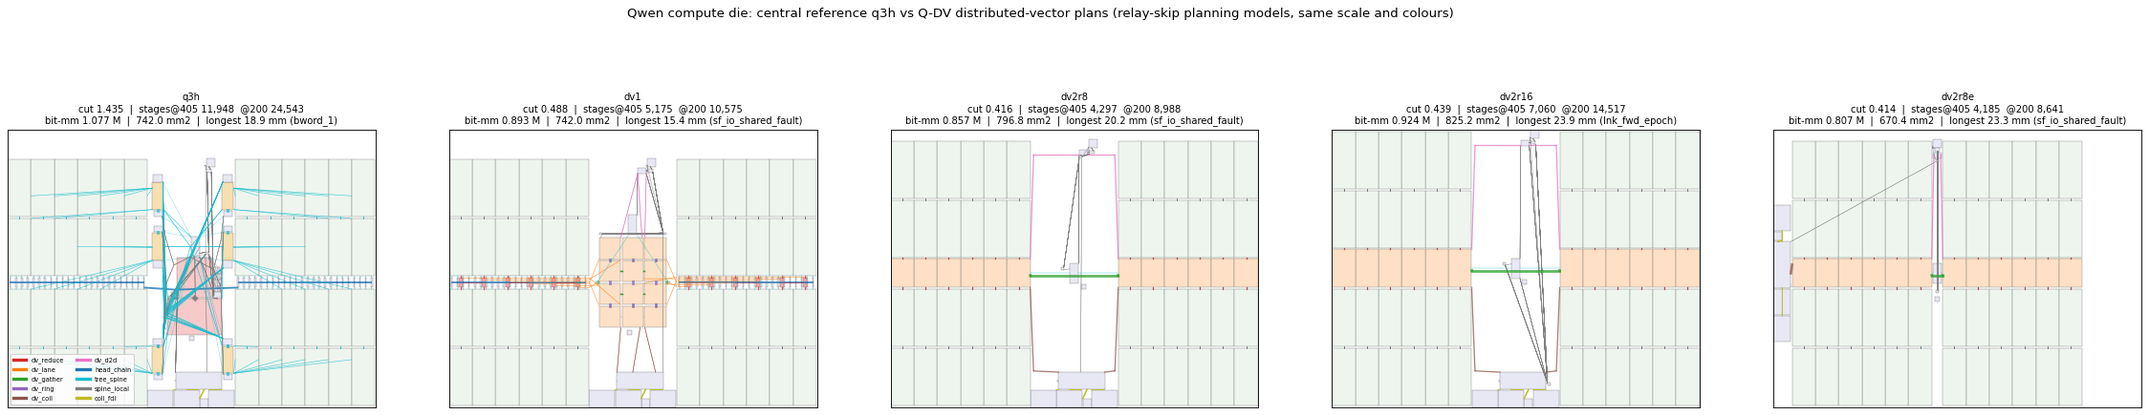
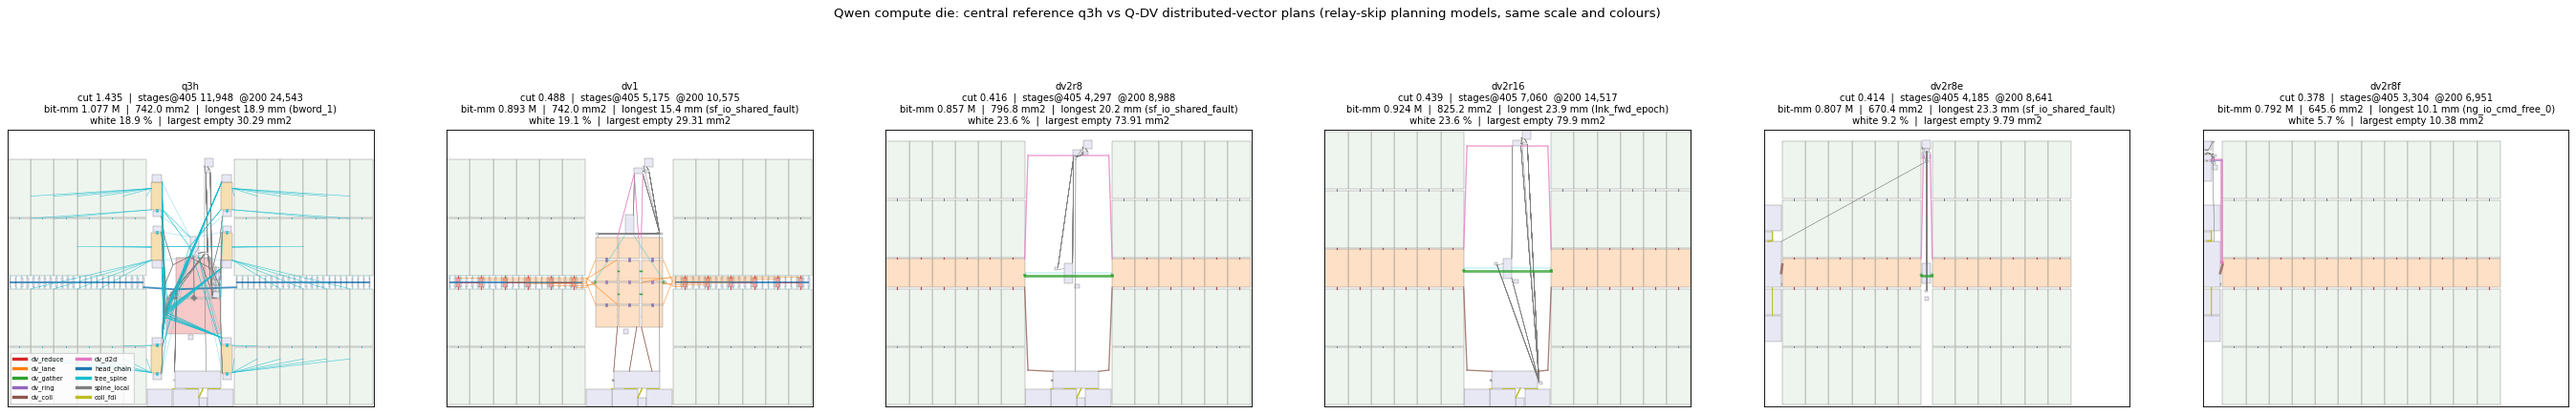
Q-DV dv2r8f ADOPTED: centre closed, D2D/control in the W column (cut 0.378, stages 3,304, bit-mm 0.792M, 645.6 mm2, white 5.7%); white-space metric; montage with white %

Changed region(s): [[0.0, 0.2097, 1.0, 0.9885], [0.2802, 0.0, 0.6851, 0.0599]]

diff --git a/results/arch/qwen_dv_1016/build_dv2f.py b/results/arch/qwen_dv_1016/build_dv2f.py
@@ -1,0 +1,62 @@
+#!/usr/bin/env python3
+"""Q-DV dv2r8f (owner 10-17, no empty regions): from dv2r8e
+  * centre closed to CW (default 0): the W and E arrays and slice rows abut; dvs_W0 | dvs_E0 exchange the stream face to
+    face (as every slice pair does); no die net needs a centre channel any more (the D2D / control group moves out)
+  * the control / D2D group goes to the N end of the W-edge column, packed two abreast (778-um blocks in the 1,672-um
+    column): ucie_kv on the N edge at the W corner (KV die abuts the N edge, shifted to the W corner: same edge as today),
+    d2d_rom under it (FDI abutted), native59 | sys_face, tt_ctlm | embed / clk_rx / rstseq
+  * the PHY stack (serdes_2, serdes_1, collective, io_ucie, serdes) stays contiguous, centred on the slice row
+    python3 build_dv2f.py IN(dv2r8e).json OUT.json [CW]"""
+import json, sys
+src, out = sys.argv[1:3]; CW = float(sys.argv[3]) if len(sys.argv) > 3 else 0.0
+d = json.load(open(src)); I = {i['n']: i for i in d['insts']}
+G = 108.0
+xw1 = I['c16_W0_1']['x'] + I['c16_W0_1']['w']; xe0 = I['c16_E0_1']['x']
+dx = (xe0 - xw1) - CW
+IO = {'io_collective', 'io_serdes', 'io_serdes_1', 'io_serdes_2', 'io_ucie', 'bump_pkg_s0', 'bump_pkg_s1', 'bump_die_ps'}
+CTRL = ['ucie_kv', 'd2d_rom', 'native59', 'sys_face', 'tt_ctlm', 'embed_prov', 'clk_rx', 'rstseq_rom', 'ckb_rom', 'rs_bump', 'bump_fwd_epoch', 'bump_fwd_lrst']
+for n, i in I.items():
+    if n in IO or n in CTRL: continue
+    if i['x'] + i['w'] / 2 > (xw1 + xe0) / 2: i['x'] = round(i['x'] - dx, 3)
+colw = max(I[n]['x'] + I[n]['w'] for n in IO if n.startswith('io_'))
+H = max(i['y'] + i['h'] for n, i in I.items() if n.startswith('c16_'))
+top = H
+def put(n, x, y): I[n]['x'] = round(x, 3); I[n]['y'] = round(y, 3)
+# N end of the column: ucie_kv on the N edge, d2d abutted below (FDI 4.32 um), bumps beside
+put('ucie_kv', 0.0, top - I['ucie_kv']['h']); put('d2d_rom', 0.0, I['ucie_kv']['y'] - 4.32 - I['d2d_rom']['h'])
+for k, n in enumerate(('ckb_rom', 'rs_bump', 'bump_fwd_epoch', 'bump_fwd_lrst')):
+    put(n, I['ucie_kv']['w'] + 30 + 60 * k, top - 60)
+put('native59', 0.0, I['d2d_rom']['y'] - G - I['native59']['h'])
+put('sys_face', I['ucie_kv']['w'] + G, I['native59']['y'] + I['native59']['h'] - I['sys_face']['h'])
+put('tt_ctlm', 0.0, I['native59']['y'] - G - I['tt_ctlm']['h'])
+x2 = I['tt_ctlm']['w'] + G; y = I['tt_ctlm']['y'] + I['tt_ctlm']['h']
+for n in ('embed_prov', 'clk_rx', 'rstseq_rom'):
+    y -= I[n]['h']; put(n, x2, y); y -= G
+ctrl_bottom = min(I[n]['y'] for n in CTRL)
+# lane relays: crossing lane gone (abutted); edge lanes now along the column
+for n in ('dvx_w', 'dvx_e'):
+    I.pop(n, None)
+d['buses'] = [b for b in d['buses'] if b[0] not in ('dv_x0', 'dv_x1', 'dv_x2')]
+d['buses'].append(['dv_x0', 'dv_gather', 2 * 1088 + 96, ['dvs_W0', 'dvs_E0']])
+# D2D / ib: from the column (native59, tt_ctlm) along the slice-row lane to W5 (the backbone end); E side via the backbone
+d['buses'] = [b for b in d['buses'] if not b[0].startswith(('dv_kv', 'dv_ib_'))]
+for n in ('dvk_W', 'dvk_E'): I.pop(n, None)
+d['buses'] += [['dv_kv_W', 'dv_d2d', 2 * 1068, ['dvs_W5', 'native59']], ['dv_ib_W', 'tree_spine', 380, ['tt_ctlm', 'dvs_W5']]]
+# column channel: widen the PHY-column / array channel to CH so the D2D + ib lanes (2,516 b) run inside it, not over W5
+CH = float(sys.argv[4]) if len(sys.argv) > 4 else 216.0
+colx = max(I[n]['x'] + I[n]['w'] for n in CTRL + [k for k in IO if k.startswith('io_')])
+arr0 = min(i['x'] for n, i in I.items() if n.startswith(('c16_', 'dvs_')))
+sh = colx + CH - arr0
+for n, i in I.items():
+    if n in IO or n in CTRL: continue
+    i['x'] = round(i['x'] + sh, 3)
+lx = colx + CH / 2 - 5.4; sl = I['dvs_W5']
+for n, y in (('dvl_a', I['native59']['y']), ('dvl_b', sl['y'] + sl['h'] - 300)):   # lane enters W5 near its N-W corner
+    I[n] = dict(n=n, m='qfd_dv_lane_relay', x=round(lx, 3), y=round(y, 3), w=10.8, h=10.8)
+d['buses'] = [b for b in d['buses'] if b[0] not in ('dv_kv_W', 'dv_ib_W')]
+d['buses'] += [['dv_kv_W', 'dv_d2d', 2 * 1068, ['native59', 'dvl_a']], ['dv_kv_W2', 'dv_d2d', 2 * 1068, ['dvl_a', 'dvl_b']],
+               ['dv_kv_W3', 'dv_d2d', 2 * 1068, ['dvl_b', 'dvs_W5']], ['dv_ib_W', 'tree_spine', 380, ['tt_ctlm', 'dvl_a']]]
+d['insts'] = list(I.values()); d['centre_um'] = CW; d['column_channel_um'] = CH
+json.dump(d, open(out, 'w'))
+phy_top = max(I[n]['y'] + I[n]['h'] for n in IO if n.startswith('io_'))
+print(out, 'centre', CW, 'column', round(colw), 'ctrl group y', round(ctrl_bottom), '..', round(top), 'PHY stack top', round(phy_top), 'gap', round(ctrl_bottom - phy_top))

diff --git a/results/arch/qwen_dv_1016/cycles_v2.py b/results/arch/qwen_dv_1016/cycles_v2.py
@@ -72,13 +72,18 @@ def dv2(f, lanes=8, rep=False):
     side = lambda s: [f'dvs_{s}{g}' for g in range(6)]
     R = FEED + 1 + st(I, 'c16_W5_1', 'dvs_W5')
     P = max(st(I, f'dvs_{s}{g+1}', f'dvs_{s}{g}') for s in 'WE' for g in (0, 2, 4))
-    cross = ['dvs_W0', 'dvx_w', 'dvx_e', 'dvs_E0']
+    cross = ['dvs_W0', 'dvx_w', 'dvx_e', 'dvs_E0'] if 'dvx_w' in I else ['dvs_W0', 'dvs_E0']
     far = st(I, *side('W')[::-1], *cross[1:], *side('E')[1:])            # W5 -> E5 along the stream
     within = st(I, *side('W')[::-1])                                     # W5 -> W0
     tree_side = 2 * max(st(I, *side('W')[k:3][::-1] or ['dvs_W2']) if k < 3 else st(I, *side('W')[2:k + 1]) for k in range(6))
-    tree_die = 2 * st(I, 'dvs_W5', 'dvs_W4', 'dvs_W3', 'dvs_W2', 'dvs_W1', 'dvs_W0', 'dvx_w')
-    K = st(I, 'dvs_W4', 'dvs_W3', 'dvs_W2', 'dvs_W1', 'dvs_W0', 'dvk_W', 'native59', 'd2d_rom')
-    O = st(I, 'd2d_rom', 'native59', 'dvk_W', 'dvs_W0', 'dvs_W1', 'dvs_W2', 'dvs_W3', 'dvs_W4', 'dvs_W5')
+    tree_die = 2 * st(I, 'dvs_W5', 'dvs_W4', 'dvs_W3', 'dvs_W2', 'dvs_W1', 'dvs_W0', cross[1])
+    if 'dvl_a' in I:                                 # dv2r8f: D2D group at the N end of the W column, lane to W5
+        bb = ['dvs_E4', 'dvs_E3', 'dvs_E2', 'dvs_E1', 'dvs_E0', 'dvs_W0', 'dvs_W1', 'dvs_W2', 'dvs_W3', 'dvs_W4', 'dvs_W5']
+        K = st(I, *bb, 'dvl_b', 'dvl_a', 'native59', 'd2d_rom')
+        O = st(I, 'd2d_rom', 'native59', 'dvl_a', 'dvl_b', 'dvs_W5', 'dvs_W4', 'dvs_W3', 'dvs_W2', 'dvs_W1', 'dvs_W0', 'dvs_E0', 'dvs_E1', 'dvs_E2', 'dvs_E3', 'dvs_E4', 'dvs_E5')
+    else:
+        K = st(I, 'dvs_W4', 'dvs_W3', 'dvs_W2', 'dvs_W1', 'dvs_W0', 'dvk_W', 'native59', 'd2d_rom')
+        O = st(I, 'd2d_rom', 'native59', 'dvk_W', 'dvs_W0', 'dvs_W1', 'dvs_W2', 'dvs_W3', 'dvs_W4', 'dvs_W5')
     if d.get('variant') == 'A':                     # dv2r8e A: collective at the W edge, AR enters at the backbone end W5
         A = st(I, 'dvs_W5', 'io_collective') + st(I, 'io_collective', 'dvs_W5')
     else:

diff --git a/results/arch/qwen_dv_1016/compare_all.py b/results/arch/qwen_dv_1016/compare_all.py
@@ -6,6 +6,7 @@ import matplotlib; matplotlib.use('Agg')
 import matplotlib.pyplot as plt
 from matplotlib.patches import Rectangle
 sys.path.insert(0, '/home/ubuntu/scratch/qdv-1016'); import metr
+sys.path.insert(0, '/home/ubuntu/wt/qdv-1016/results/arch/qwen_dv_1016'); import whitespace
 COL = {'dv_reduce': '#d62728', 'dv_lane': '#ff7f0e', 'dv_gather': '#2ca02c', 'dv_ring': '#9467bd', 'dv_coll': '#8c564b',
        'dv_d2d': '#e377c2', 'head_chain': '#1f77b4', 'tree_spine': '#17becf', 'spine_local': '#7f7f7f', 'coll_fdi': '#bcbd22'}
 FILL = {'qfd_c_b16': '#eef5ee', 'qfd_dv_slice': '#fde0c5', 'qfd_dv_slice2': '#fde0c5', 'qfd_dv_redstn': '#f4a6a6',
@@ -28,9 +29,9 @@ for ax, (name, f) in zip(axs, M):
         for a, q in (zip(p, p[1:]) if len(p) == 2 else [(p[0], t) for t in p[1:]]):
             A, Q = cl(a, cen(q)), cl(q, cen(a)); ax.plot([A[0], Q[0]], [A[1], Q[1]], color=COL[c], lw=max(.3, bits / 900), alpha=.75)
     ax.set_xlim(0, W + 50); ax.set_ylim(0, H + 50); ax.set_aspect('equal'); ax.set_xticks([]); ax.set_yticks([])
-    lh = r['longest_hop']
+    lh = r['longest_hop']; wsr = whitespace.ws(f)
     ax.set_title(f"{name}\ncut {r['worst_cut']}  |  stages@405 {r['stages405']:,}  @200 {r200['stages200']:,}\n"
-                 f"bit-mm {r['bitmm'] / 1e6:.3f} M  |  {r['mm2']} mm2  |  longest {lh[0] / 1000:.1f} mm ({lh[1]})", fontsize=9)
+                 f"bit-mm {r['bitmm'] / 1e6:.3f} M  |  {r['mm2']} mm2  |  longest {lh[0] / 1000:.1f} mm ({lh[1]})\nwhite {wsr['white_pct']} %  |  largest empty {wsr['largest_empty']['mm2']} mm2", fontsize=9)
 for c, col in COL.items(): axs[0].plot([], [], color=col, lw=3, label=c)
 axs[0].legend(loc='lower left', fontsize=6, ncol=2)
 fig.suptitle('Qwen compute die: central reference q3h vs Q-DV distributed-vector plans (relay-skip planning models, same scale and colours)', fontsize=12)

diff --git a/results/arch/qwen_dv_1016/whitespace.py b/results/arch/qwen_dv_1016/whitespace.py
@@ -1,0 +1,32 @@
+#!/usr/bin/env python3
+"""White space of a planning model: 1 - (block area clipped to the die) / die area (blocks > 0.04 mm2; relays / bumps
+excluded), and the largest empty axis-aligned rectangle (20-um raster, maximal-rectangle histogram method).
+    whitespace.py MODEL.json ... -> json lines"""
+import json, sys
+import numpy as np
+def ws(f, g=20.0):
+    d = json.load(open(f)); I = [i for i in d['insts'] if i['w'] * i['h'] > 4e4]
+    allI = d['insts']
+    W = max(i['x'] + i['w'] for i in allI) + 21.6; H = max(i['y'] + i['h'] for i in allI) + 21.6
+    nx, ny = int(W / g) + 1, int(H / g) + 1
+    occ = np.zeros((ny, nx), dtype=bool)
+    for i in I:
+        x0, x1 = int(i['x'] / g), int(np.ceil((i['x'] + i['w']) / g)); y0, y1 = int(i['y'] / g), int(np.ceil((i['y'] + i['h']) / g))
+        occ[y0:y1, x0:x1] = True
+    white = 1 - occ.sum() / occ.size
+    h = np.zeros(nx, dtype=int); best = (0, None)
+    for r in range(ny):
+        h = np.where(occ[r], 0, h + 1); st = []
+        for c in range(nx + 1):
+            cur = h[c] if c < nx else 0
+            start = c
+            while st and st[-1][1] >= cur:
+                s, hh = st.pop(); a = hh * (c - s)
+                if a > best[0]: best = (a, (s * g, (r - hh + 1) * g, (c - s) * g, hh * g))
+                start = s
+            st.append((start, cur))
+    a, (x, y, w, hh) = best
+    return dict(model=f, die_mm2=round(W * H / 1e6, 1), white_pct=round(100 * white, 1), white_mm2=round(white * W * H / 1e6, 1),
+                largest_empty=dict(mm2=round(w * hh / 1e6, 2), x=x, y=y, w=w, h=hh))
+if __name__ == '__main__':
+    for f in sys.argv[1:]: print(json.dumps(ws(f)))

diff --git a/results/arch/qwen_dv_1016/SPEC.md b/results/arch/qwen_dv_1016/SPEC.md
@@ -373,3 +373,43 @@ Outputs:
 - `dv2r8e.png`: viewed.
 
 The plan is now asymmetric: all IO is on the W edge. The E-side AR rows ride the backbone. That traffic is within the collective's own 512 b/cycle, and is ordered farthest-first.
+
+## dv2r8f: no empty regions (owner correction 0cl, 2026-10-17) -- ADOPTED
+
+`build_dv2f.py` starts from dv2r8e and makes three changes.
+
+1. **Centre closed to 0.**
+   - The W and E arrays and the slice rows abut. `dvs_W0 | dvs_E0` exchange the stream face to face, like every other slice pair.
+   - No die net needs a centre channel any more. The cut model's worst line no longer lies anywhere near the seam.
+2. **tt_ctlm / sys_face / native59 / d2d / ucie_kv / embed / clk_rx / rstseq** are packed two abreast at the N end of the W-edge column.
+   - The KV die still abuts the N edge, now at the W corner.
+   - The KV die cannot sit on the W edge: that edge carries the SerDes beachfront, and the KV die is 24 mm long.
+   - ib/go enters the backbone at W5. It is static and pre-issued, so this costs no latency.
+3. **Column channel = 216 um.**
+   - The 2,516-b D2D + ib lane (native59 -> W5) runs inside it.
+   - At 108 um that lane alone would load the channel about 0.74.
+   - Routed diagonally over W5's clusters it gave cut 0.517.
+
+| | q3h | dv2r8 | dv2r8e | **dv2r8f** |
+|---|---:|---:|---:|---:|
+| worst cut | 1.435 | 0.416 | 0.414 | **0.378** |
+| stages @405 / @200 | 11,948 / 24,543 | 4,297 / 8,988 | 4,185 / 8,641 | **3,304 / 6,951** |
+| bit-mm | 1.077 M | 0.857 M | 0.807 M | **0.792 M** |
+| die | 742.0 | 796.8 | 670.4 | **645.6 mm² (26.8 x 24.0)** |
+| white space | 18.9 % (140 mm²) | 23.6 % (188) | 9.2 % (61.5) | **5.7 % (37.1)** |
+| largest empty rectangle | 30.3 mm² (centre) | 73.9 (centre) | 9.8 (W column) | **10.4 (W column, below the PHYs)** |
+| longest link | 18.9 mm | 20.2 | 23.3 | **10.1 mm (1-b ng_io_cmd_free_0)** |
+| cycles / layer vs q3h @405 (@200) | 0 | -9 (-90) | -138 (-351) | **-66 (-215)**, +0.96 % tok/s |
+
+**Cycles trade.** The q/K/V export and the attention return now run the whole backbone from the W corner: K 49 -> 87 and O 55 -> 93 against dv2r8e. That is +72 cycles a layer against dv2r8e, but it is still a gain over q3h. The rule applied was routing ease, cut and stages no worse, and dv2r8f is better on both.
+
+**Residual white is structural.** It is 37 mm² in total, of which:
+- about 17 mm² are the required band gaps and relay lanes;
+- 10.4 mm² lie in the W column below the PHY stack;
+- a 2.1-mm gap lies between io_serdes and tt_ctlm.
+
+The arrays fix any edge column at 24 mm tall, which is 37.6 mm² at the 1.56-mm PHY depth. The column content is 21.6 mm²: 3 SerDes, the collective, io_ucie, the D2D group and control. An S-edge row would leave the same residual. The collective stays on the slice row so the AR stays at 4 stages.
+
+**Outputs:**
+- `dv2r8f.png` and `compare_all.png` (6 panels, now with white % and the largest empty rectangle) were viewed.
+- Explorer record `qwen_qdv_dv2r8f`: `token_designs ['qwen_rom']`, candidate of `qwen_r2h5`.
